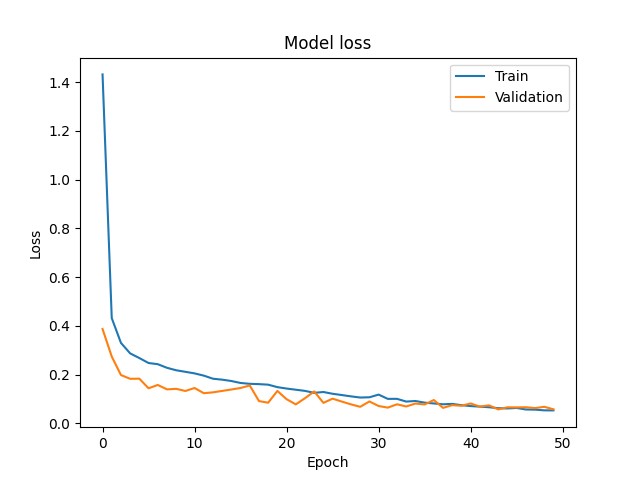
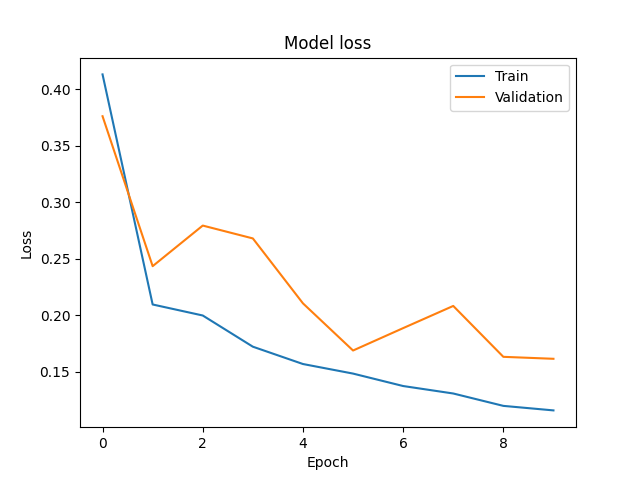
Wip

diff --git a/binary_classification.py b/binary_classification.py
@@ -3,9 +3,12 @@ import numpy as np
 from tensorflow.keras.models import Sequential
 from tensorflow.keras.layers import Dense
 import matplotlib.pyplot as plt
+from sklearn.utils.class_weight import compute_class_weight
+from sklearn.metrics import classification_report, confusion_matrix
+# from sklearn.ensemble import RandomForestClassifier
 
-NO_EPOCHS = 50
-BATCH_SIZE = 64
+NO_EPOCHS = 10
+BATCH_SIZE = 32
 LOSS = 'binary_crossentropy'
 OPTIMIZER = 'adam'
 METRICS = ['accuracy']
@@ -20,14 +23,19 @@ def create_model(input_dim):
     model.add(Dense(1, activation=ACTIVATION[1]))  # Output layer
 
     model.compile(loss=LOSS, optimizer=OPTIMIZER, metrics=METRICS)
+
     return model
 
 
 def train_model(no_clusters, target_cluster, model, x_train, y_train, x_val, y_val):
-    class_weights = {0: 1, 1: 100}
-    sample_weights = np.array([class_weights[label] for label in y_train.iloc[:, 0]])
 
-    history = model.fit(x_train, y_train, validation_data=(x_val, y_val), sample_weight=sample_weights, 
+    # Calculate class weights
+    class_weights = compute_class_weight('balanced', classes=np.unique(y_train), y=y_train)
+
+    # Create a dictionary to pass to the model
+    class_weight = {i: w for i, w in enumerate(class_weights)}
+
+    history = model.fit(x_train, y_train, validation_data=(x_val, y_val), class_weight=class_weight, 
                         epochs=NO_EPOCHS, batch_size=BATCH_SIZE, verbose=VERBOSE)
     
     plt.figure()
@@ -60,17 +68,26 @@ def binary_classification(no_clusters, target_cluster, filename):
 
     model = create_model(60)
     model = train_model(no_clusters, target_cluster, model, x_train, y_train, x_val, y_val)
-    score = model.evaluate(x_test, y_test, verbose=VERBOSE)
-    print("Test score:", score[0])
-    print("Test accuracy:", score[1])
+    loss, accuracy = model.evaluate(x_test, y_test, verbose=VERBOSE)
+    print(f'Test Loss: {loss}, Test Accuracy: {accuracy}')
+    
+    # Make predictions on the test set
+    predictions = model.predict(x_test)
 
-    # return model
+    # Threshold predictions to convert probabilities to binary predictions
+    binary_predictions = (predictions > 0.5).astype(int)
+
+    # Print classification report and confusion matrix
+    print("Classification Report:\n", classification_report(y_test, binary_predictions))
+    print("Confusion Matrix:\n", confusion_matrix(y_test, binary_predictions))
+
+    return model
 
 if __name__ == '__main__':
     binary_classification(4, 1, 'data_to_cluster/4_clusters/data_cluster_1/')
     # for i in range(4, 7):
     #     print(f'Building model for {i} clusters...')
         
-    #     for ii in range(1, i+1):
+    #     for ii in range(0, i):
     #         print(f'...building model for cluster {ii}...')
     #         binary_classification(no_clusters, target_cluster, f'data_to_cluster/{i}_clusters/data_cluster_{ii}/')
